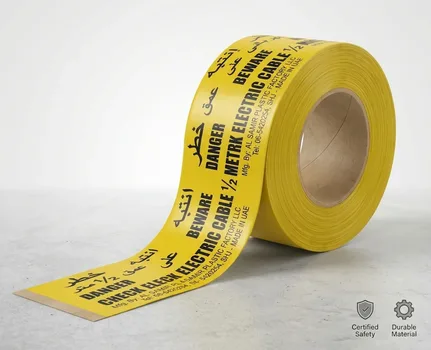
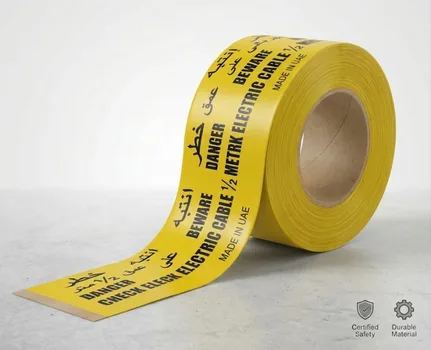
Replace photos and update price on Al Samir warning tape page
New product photos (main + 2 gallery), price AED 63 -> 70.

Changed region(s): [[0.2413, 0.5714, 0.5731, 0.8857], [0.5429, 0.1429, 0.7239, 0.5143]]

diff --git a/products/al-samir-warning-tape-yellow-150mm.html b/products/al-samir-warning-tape-yellow-150mm.html
@@ -49,7 +49,7 @@
   "offers": {
     "@type": "Offer",
     "priceCurrency": "AED",
-    "price": 63,
+    "price": 70,
     "url": "https://buildoramaterials.com/products/al-samir-warning-tape-yellow-150mm.html",
     "availability": "https://schema.org/InStock"
   }
@@ -362,7 +362,7 @@
       </div>
 
       <div class="pd-info">
-        <div class="pd-price">AED 63</div>
+        <div class="pd-price">AED 70</div>
 
         <h2 class="pd-h2">Description</h2>
         <p class="pd-desc">Yellow underground electric cable warning tape printed with the bilingual &#x27;Danger — Check Electric Cable Below&#x27; warning in English and Arabic, laid above buried power cables during trenching to alert future excavators. Manufactured by Al Samir Plastic Factory LLC in Sharjah, supplied in 150mm-wide, 250mtr rolls for long, continuous coverage along cable routes on UAE infrastructure and MEP projects.</p>

diff --git a/products.html b/products.html
@@ -12529,7 +12529,7 @@
           <div class="item-body">
 <div class="item-name">Al Samir Underground Cable Warning Tape Yellow 150mm</div>
           <div class="item-detail">Underground electric cable warning tape, yellow, 150mm x 250mtr roll</div>
-          <span class="item-brand">Al Samir</span><span class="item-price">AED 63</span>
+          <span class="item-brand">Al Samir</span><span class="item-price">AED 70</span>
           </div><span class="item-quote" onclick="event.preventDefault(); event.stopPropagation(); openWA('Al Samir Warning Tape Yellow 150mm')">Request Quote →</span>
         </a>
         <a class="item-card" href="products/coveralls-hi-vis-vests.html">

diff --git a/products_data.py b/products_data.py
@@ -852,7 +852,7 @@ PRODUCTS = [
         "category": "safety", "image": "prod-warning-tape-yellow.webp",
         "name": "Al Samir Underground Cable Warning Tape Yellow 150mm",
         "detail": "Underground electric cable warning tape, yellow, 150mm x 250mtr roll",
-        "price": 63,
+        "price": 70,
         "brands": ["Al Samir"],
         "description": "Yellow underground electric cable warning tape printed with the bilingual 'Danger — Check Electric Cable Below' warning in English and Arabic, laid above buried power cables during trenching to alert future excavators. Manufactured by Al Samir Plastic Factory LLC in Sharjah, supplied in 150mm-wide, 250mtr rolls for long, continuous coverage along cable routes on UAE infrastructure and MEP projects.",
         "sizes": ["Width: 150mm", "Length: 250mtr per roll", "Colour: yellow, bilingual EN/AR electric cable warning print", "Manufacturer: Al Samir Plastic Factory LLC, Sharjah, UAE"],
